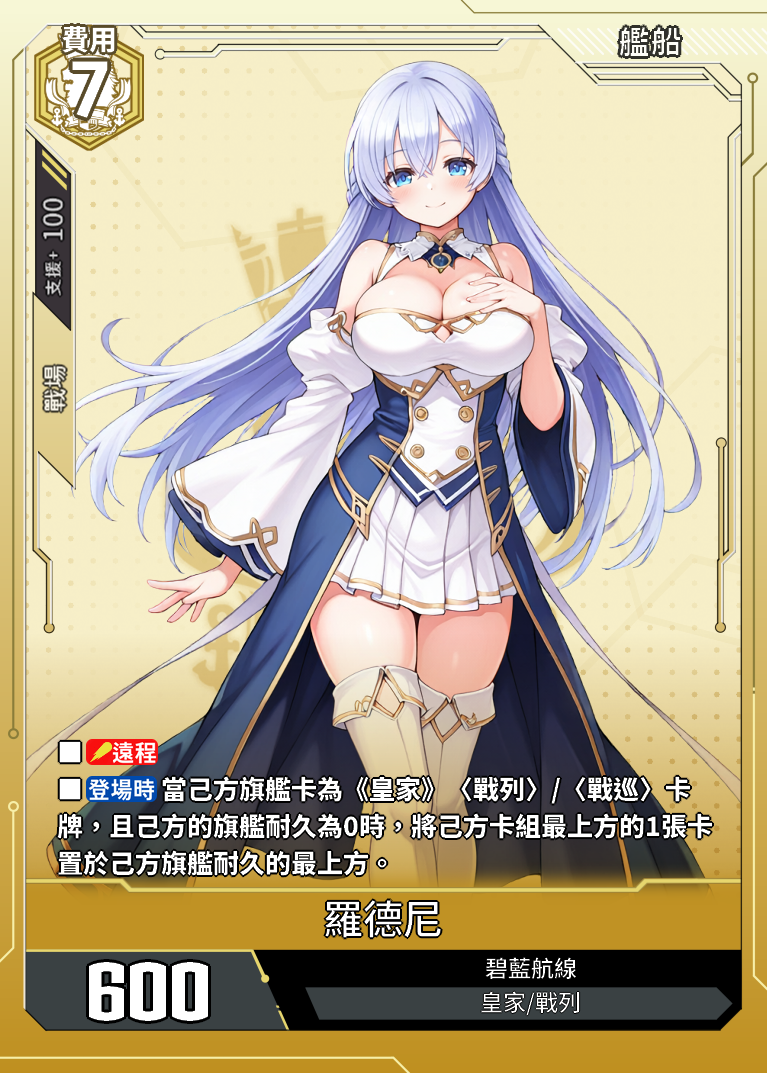
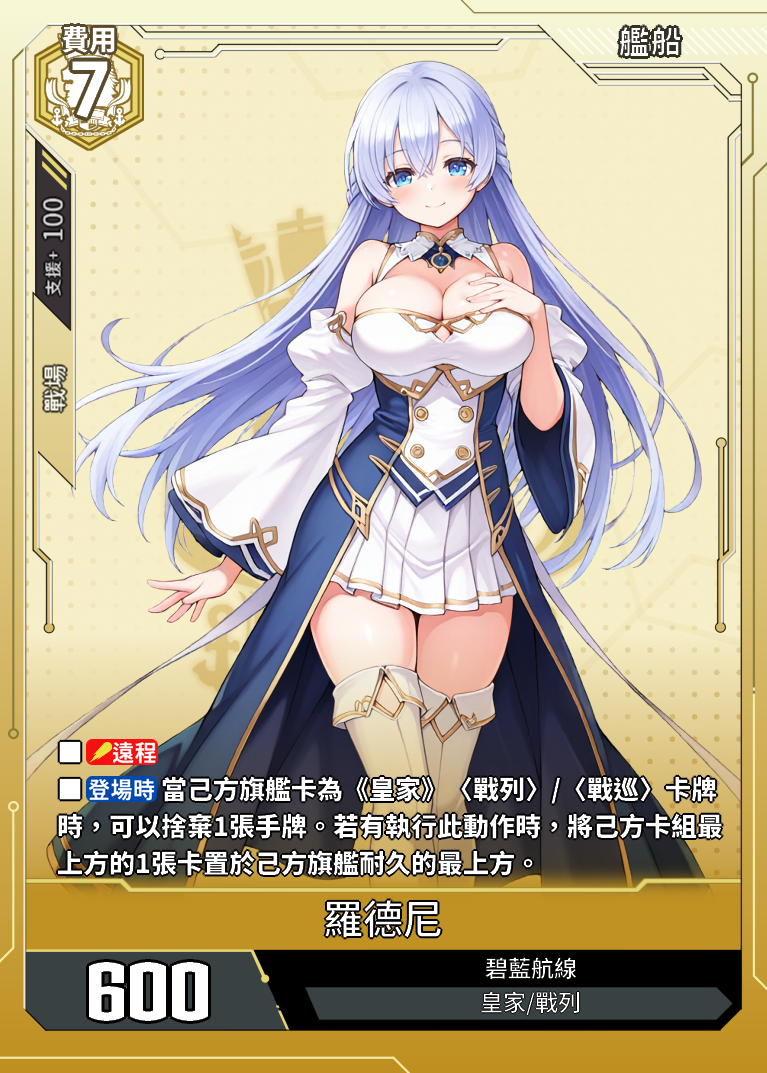
修改羅德尼

Changed region(s): [[0.06, 0.7074, 0.9596, 0.8304]]

diff --git a/data.js b/data.js
@@ -27055,7 +27055,7 @@ const cards = [
             "支援範圍": "戰場",
             "支援值": "100"
         },
-        "card_effect": "■【遠程】■【登場時】當己方旗艦卡為《皇家》〈戰列〉/〈戰巡〉卡牌，且己方的旗艦耐久為0時，將己方卡組最上方的1張卡置於己方旗艦耐久的最上方。",
+        "card_effect": "■【遠程】■【登場時】當己方旗艦卡為《皇家》〈戰列〉/〈戰巡〉卡牌，可以捨棄1張手牌。若有執行此動作時，將己方卡組最上方的1張卡置於己方旗艦耐久的最上方。",
         "acquisition_method": "CE03-早期測試"
     },
 	{
